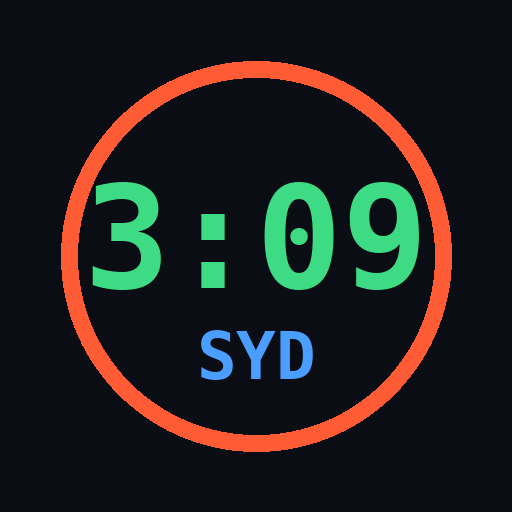
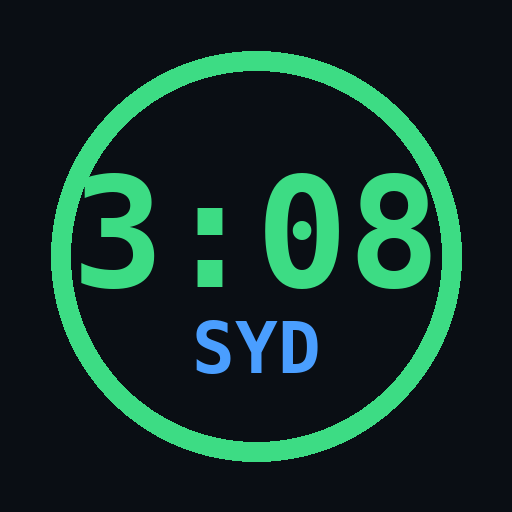
Add files via upload

diff --git a/index.html b/index.html
@@ -8,7 +8,7 @@
 <meta name="apple-mobile-web-app-status-bar-style" content="black-translucent" />
 <meta name="apple-mobile-web-app-title" content="Sydney 3:08" />
 <link rel="manifest" href="manifest.json" />
-<link rel="apple-touch-icon" href="icon-192.png" />
+<link rel="apple-touch-icon" href="apple-touch-icon.png" />
 <title>Sydney Marathon 3:08:59</title>
 <style>
   * { box-sizing: border-box; margin: 0; padding: 0; -webkit-tap-highlight-color: transparent; }
@@ -169,8 +169,9 @@ function render() {
   h += '<button class="gear" onclick="toggleData()">DATA</button>';
   h += '</div></div>';
 
+  var toGo = days > 0 ? (Math.floor(days/7) + "W" + (days%7) + "D") : "0";
   var stats = [
-    {l:"Days to go", v:days>0?days:0, c:"#ff5c35"},
+    {l:"To go", v:toGo, c:"#ff5c35"},
     {l:"Total", v:totalKm+"km", c:"#ffffff"},
     {l:"Runs", v:totalRuns, c:"#ffffff"},
     {l:"VO2", v:lm?lm.vo2:"-", c:"#4a9eff"},
@@ -228,8 +229,8 @@ function renderPlan(cw) {
         var isRest = sess==="Rest";
         var tooFast = false;
         if (run && run.pace && isEasy(sess)) { var sec=paceToSec(run.pace); if(sec!==null&&sec<310) tooFast=true; }
-        var dcls = "day" + (run?" run":"") + (tooFast?" fast":"") + (isRest&&!run?" rest":"") + (!isRest?" loggable":"");
-        var clickAttr = !isRest ? ' onclick="openDetail(event,\''+dk+'\')"' : '';
+        var dcls = "day" + (run?" run":"") + (tooFast?" fast":"") + (isRest&&!run?" rest":"") + " loggable";
+        var clickAttr = ' onclick="openDetail(event,\'"+dk+"\')"';
         h += '<div class="'+dcls+'"'+clickAttr+'>';
         h += '<span style="font-size:9px;color:#eef2f6;font-weight:700;min-width:24px;padding-top:1px">'+DAY_NAMES[di]+'</span>';
         h += '<span style="flex:1"><span style="font-size:9px;color:'+(isRest?"#d4dce6":"#eef2f6")+';display:block">'+esc(sess)+'</span>';
@@ -242,7 +243,7 @@ function renderPlan(cw) {
           if (run.pace) h += '<span style="font-size:8px;color:#eef2f6">'+run.pace+'</span>';
           if (run.hr) h += '<span style="font-size:8px;color:#4a9eff">HR'+run.hr+'</span>';
           h += '</span>';
-        } else if (!isRest) {
+        } else {
           h += '<span style="font-size:8px;color:#d4dce6;padding-top:1px">+ log</span>';
         }
         h += '</div>';
@@ -310,14 +311,17 @@ function renderMetrics() {
 
     h += '<div class="card"><div style="font-size:8px;color:#eef2f6;text-transform:uppercase;letter-spacing:0.5px;margin-bottom:6px">LT to Marathon Pace Headroom</div>';
     metrics.forEach(function(m){ var p=ltPct(m.lt); var bc=(p<=93)?"#3ddc84":"#ff9100";
-      h+='<div style="display:flex;align-items:center;gap:6px;margin-bottom:5px"><span style="font-size:8px;color:#eef2f6;min-width:30px">Wk'+m.week+'</span><div style="flex:1;height:16px;background:#0a0e14;border-radius:3px;position:relative;overflow:hidden"><div style="position:absolute;left:0;top:0;bottom:0;width:'+((100-p)*3)+'%;background:'+bc+'33;border-radius:3px"></div><div style="position:absolute;left:6px;top:50%;transform:translateY(-50%);font-size:9px;font-weight:600">'+m.lt+'/km - '+p+'%</div></div><span style="font-size:9px;font-weight:700;color:'+bc+'">'+(p<=93?"OK":"--")+'</span></div>'; });
+      h+='<div style="display:flex;align-items:center;gap:6px;margin-bottom:5px"><span style="font-size:8px;color:#eef2f6;min-width:30px">Wk'+m.week+'</span><div style="flex:1;height:16px;background:#0a0e14;border-radius:3px;position:relative;overflow:hidden"><div style="position:absolute;left:0;top:0;bottom:0;width:'+((100-p)*3)+'%;background:'+bc+'33;border-radius:3px"></div><div style="position:absolute;left:6px;top:50%;transform:translateY(-50%);font-size:9px;font-weight:600">'+m.lt+'/km'+(m.ltHr?(" @ "+m.ltHr+"bpm"):"")+' - '+p+'%</div></div><span style="font-size:9px;font-weight:700;color:'+bc+'">'+(p<=93?"OK":"--")+'</span></div>'; });
     h += '</div>';
   } else {
     h += '<div class="empty">No fitness metrics yet.<br>Add your VO2max and LT below.</div>';
   }
 
   h += '<div class="card"><div class="card-title">Add Metric Reading</div>';
-  h += '<div class="modal-row" style="margin-bottom:6px"><input id="m-week" inputmode="numeric" placeholder="week #" style="flex:1;padding:8px;background:#0a0e14;border:1px solid #1a1f2b;border-radius:4px;color:#fff"><input id="m-vo2" inputmode="numeric" placeholder="VO2max" style="flex:1;padding:8px;background:#0a0e14;border:1px solid #1a1f2b;border-radius:4px;color:#fff"><input id="m-lt" placeholder="LT eg 4:08" style="flex:1;padding:8px;background:#0a0e14;border:1px solid #1a1f2b;border-radius:4px;color:#fff"></div>';
+  var todayStr = new Date().getFullYear()+"-"+("0"+(new Date().getMonth()+1)).slice(-2)+"-"+("0"+new Date().getDate()).slice(-2);
+  h += '<div style="font-size:9px;color:#9aa4b4;margin-bottom:4px">Date (defaults to today; plan week auto-derived)</div>';
+  h += '<input id="m-date" type="date" value="'+todayStr+'" style="width:100%;padding:8px;margin-bottom:6px;background:#0a0e14;border:1px solid #1a1f2b;border-radius:4px;color:#fff">';
+  h += '<div class="modal-row" style="margin-bottom:6px"><input id="m-vo2" inputmode="numeric" placeholder="VO2max" style="flex:1;padding:8px;background:#0a0e14;border:1px solid #1a1f2b;border-radius:4px;color:#fff"><input id="m-lt" placeholder="LT pace eg 4:08" style="flex:1;padding:8px;background:#0a0e14;border:1px solid #1a1f2b;border-radius:4px;color:#fff"><input id="m-hr" inputmode="numeric" placeholder="LT HR" style="flex:1;padding:8px;background:#0a0e14;border:1px solid #1a1f2b;border-radius:4px;color:#fff"></div>';
   h += '<button class="btn-save" onclick="addMetric()">Add reading</button></div>';
 
   h += '<div class="card"><div style="font-size:8px;color:#eef2f6;text-transform:uppercase;letter-spacing:0.5px;margin-bottom:6px">Key Paces</div>';
@@ -403,14 +407,27 @@ function saveLog(){
 }
 function deleteRun(){ if(runs[logDate]){ delete runs[logDate]; saveRuns(); } logDate=null; render(); }
 
+function weekFromDate(dateStr){
+  var d = new Date(dateStr+"T00:00:00");
+  var start = new Date(2026,3,27);
+  var wk = Math.floor((d - start)/(7*86400000)) + 1;
+  if (wk < 1) wk = 1;
+  if (wk > 18) wk = 18;
+  return wk;
+}
 function addMetric(){
-  var wk=parseInt(document.getElementById("m-week").value);
+  var dateStr=document.getElementById("m-date").value;
   var vo2=parseInt(document.getElementById("m-vo2").value);
   var lt=document.getElementById("m-lt").value;
-  if(!wk||!lt){ showToast("Need week and LT"); return; }
-  metrics.push({ week:wk, vo2:vo2||null, lt:lt });
+  var ltHr=parseInt(document.getElementById("m-hr").value);
+  if(!dateStr||!lt){ showToast("Need date and LT pace"); return; }
+  var wk=weekFromDate(dateStr);
+  // replace existing reading for that week if present
+  metrics=metrics.filter(function(m){ return m.week!==wk; });
+  metrics.push({ week:wk, vo2:vo2||null, lt:lt, ltHr:ltHr||null });
   metrics.sort(function(a,b){ return a.week-b.week; });
   saveMetrics(); render();
+  showToast("Added reading for week "+wk);
 }
 
 function toggleData(){ dataPanel=!dataPanel; render(); }

diff --git a/service-worker.js b/service-worker.js
@@ -1,5 +1,5 @@
-var CACHE = "sydney-marathon-v5";
-var ASSETS = ["index.html", "manifest.json", "icon-192.png", "icon-512.png"];
+var CACHE = "sydney-marathon-v7";
+var ASSETS = ["index.html", "manifest.json", "icon-192.png", "icon-512.png", "apple-touch-icon.png"];
 
 self.addEventListener("install", function(e) {
   e.waitUntil(caches.open(CACHE).then(function(c) { return c.addAll(ASSETS); }));